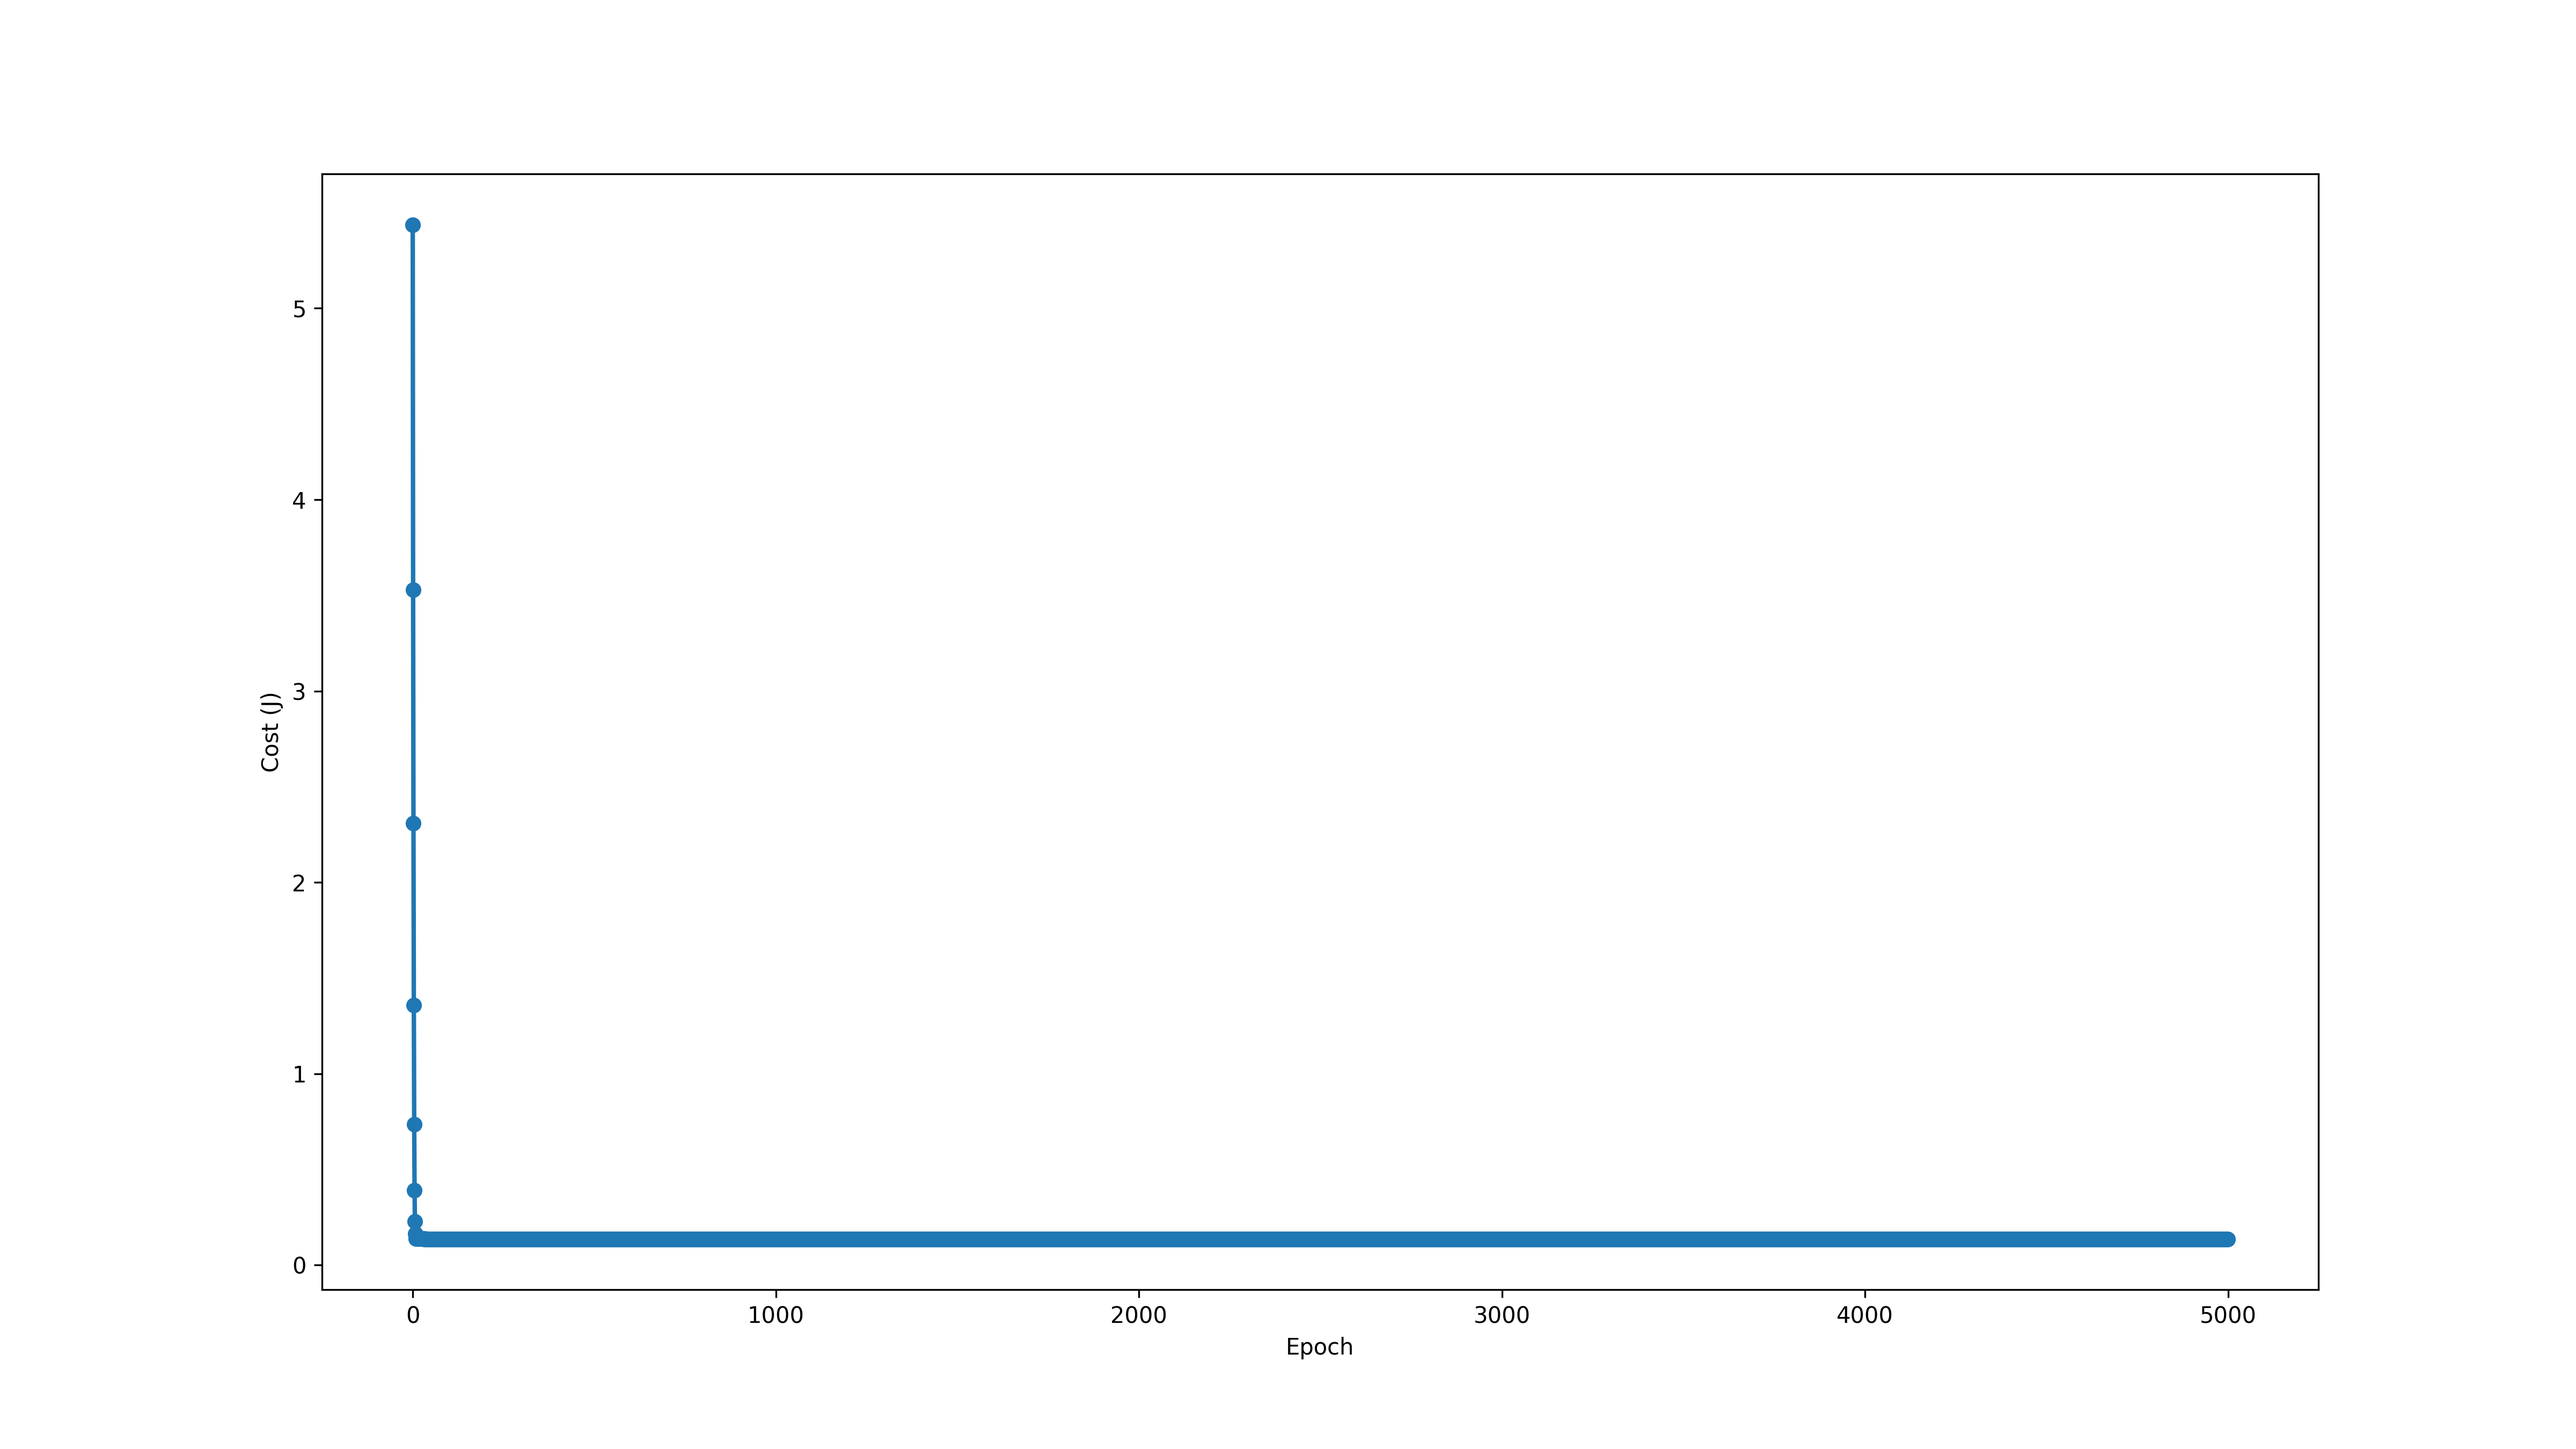
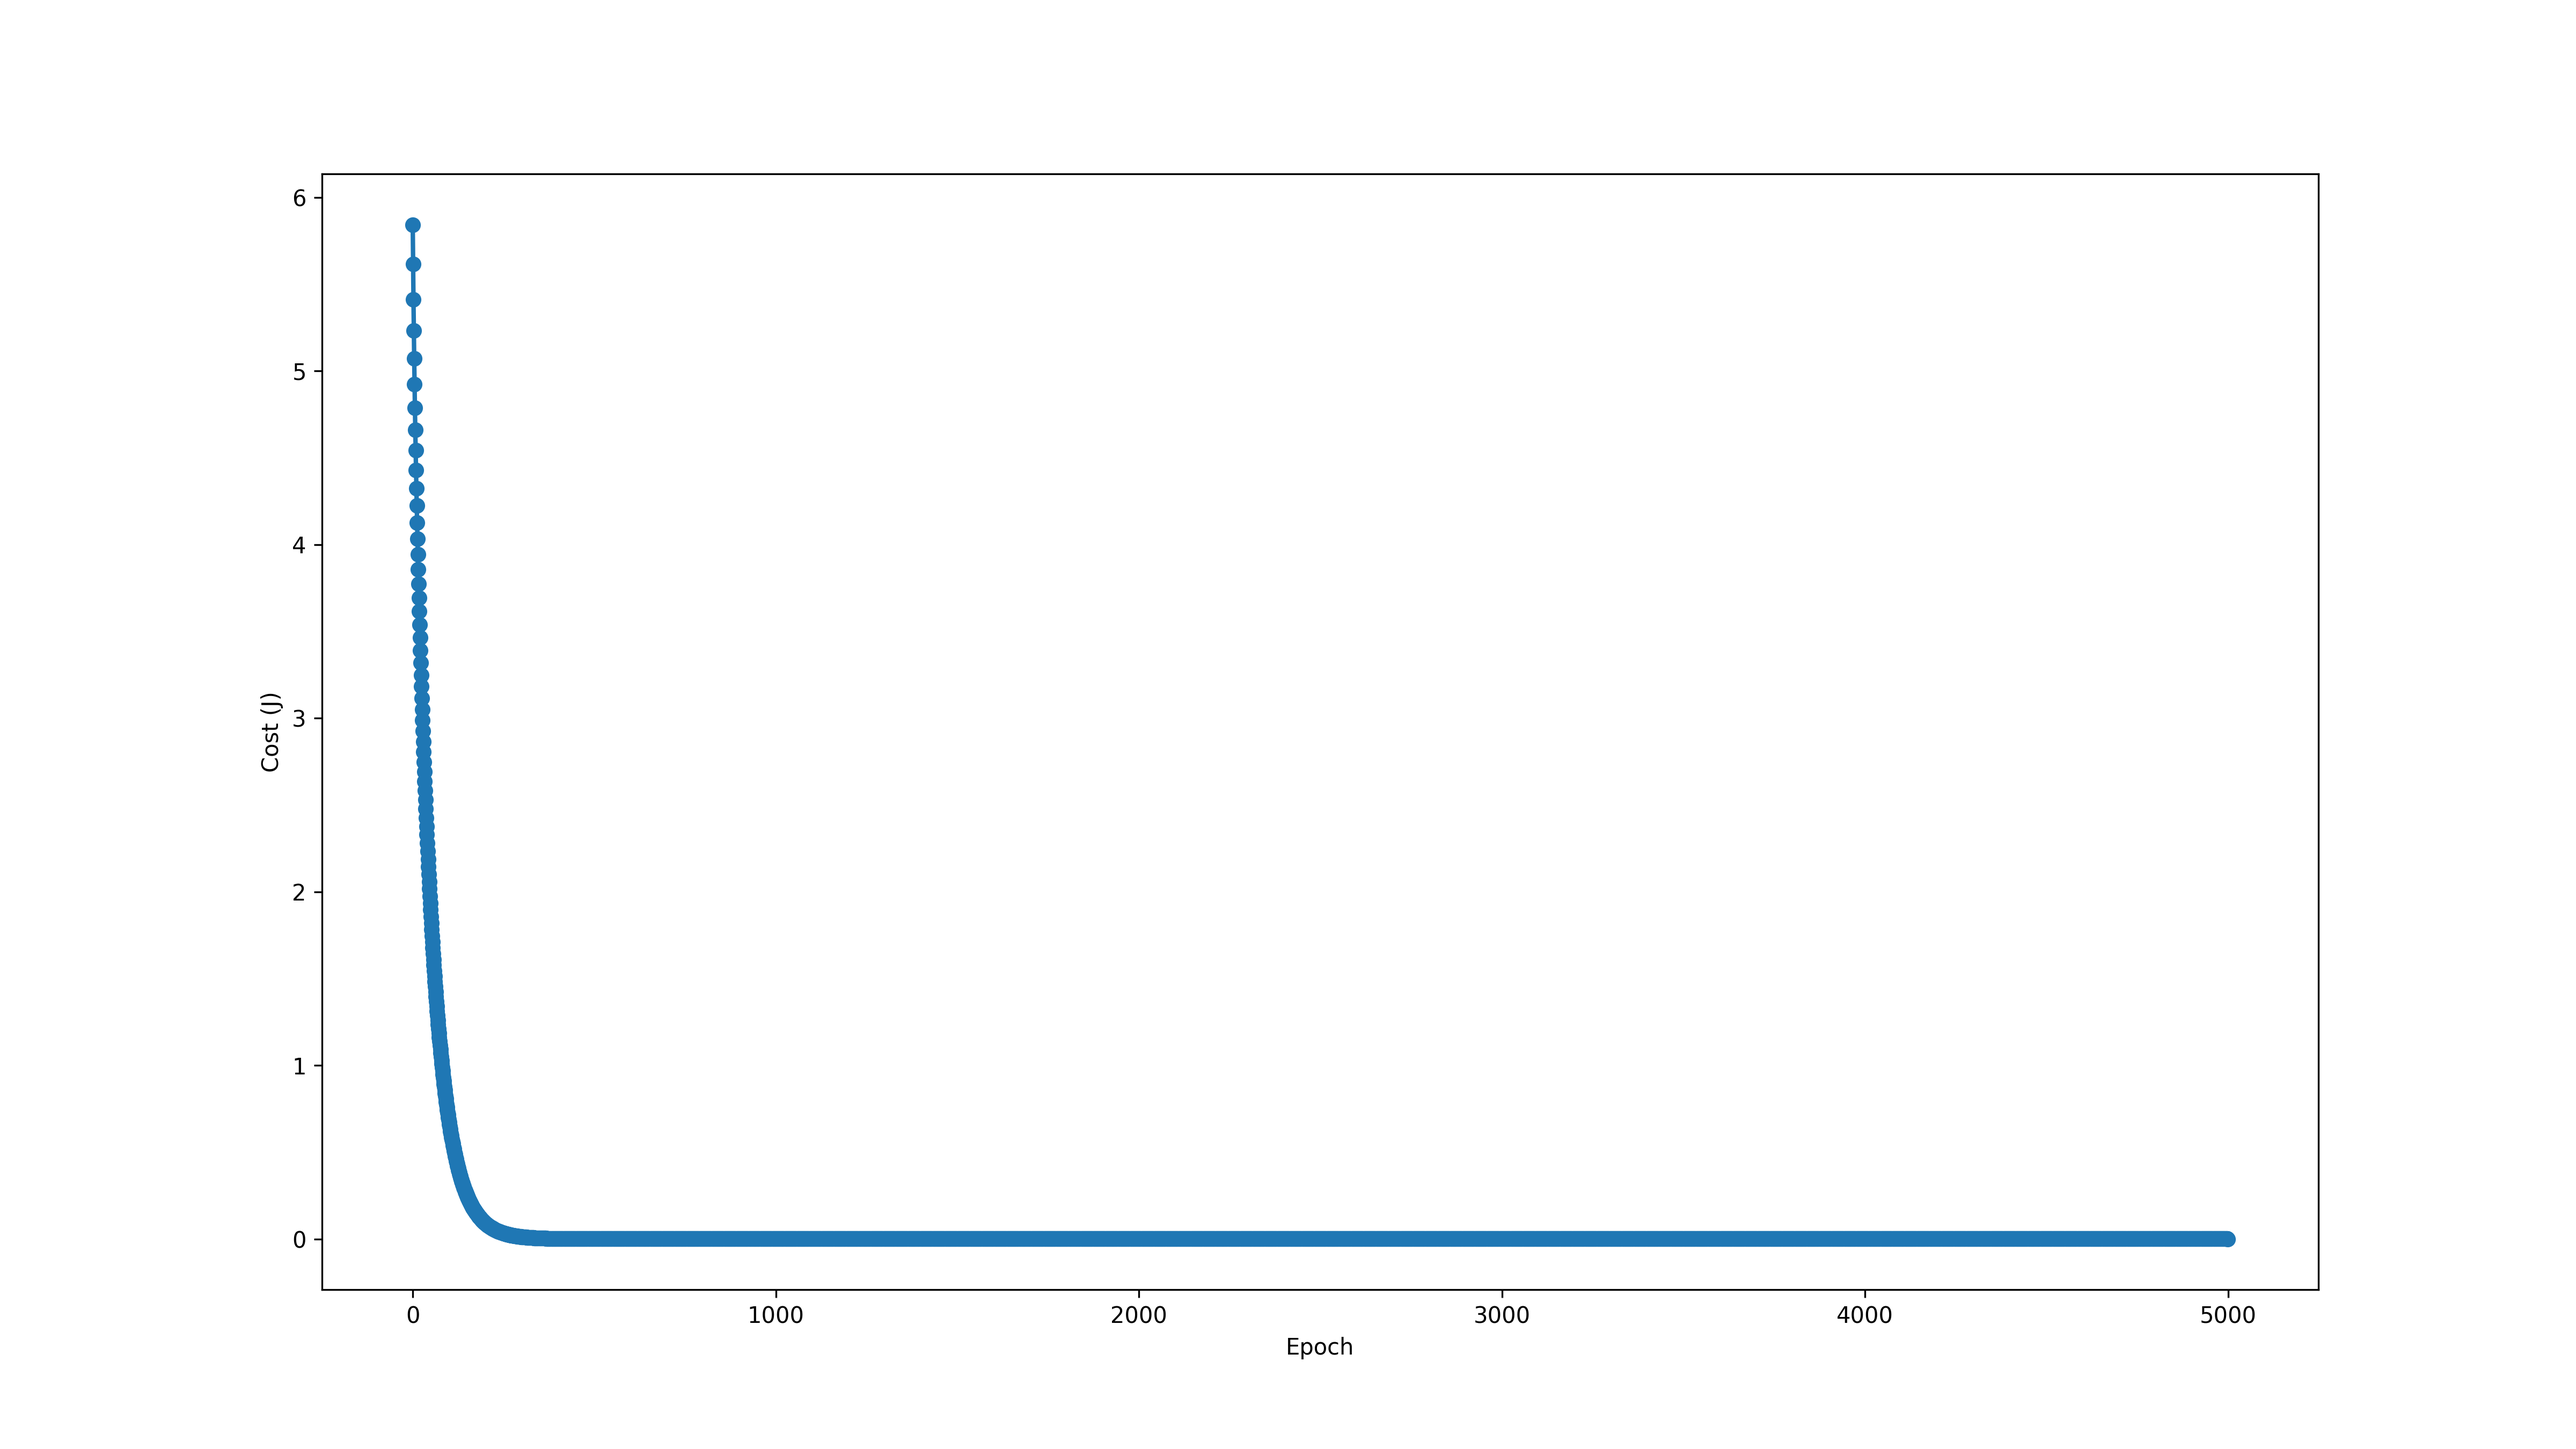
exc2 almost ending

Changed region(s): [[0.1562, 0.28, 0.2188, 0.8711]]

diff --git a/2 - Regression/regressao.py b/2 - Regression/regressao.py
@@ -6,19 +6,22 @@ import matplotlib.pyplot as plt
 from matplotlib import cm
 
 
-
-
+def vector2matrix(x):
+    return np.array([x]).T if len(x.shape) == 1 else x
 
 
 def f_true(x):
-    return 2 + 0.8 * x
+    # return 2 + 0.8 * x
+    y = np.ones((x.shape[0]))*2
+    for i in range(x.shape[1]):
+        xc = np.exp(x[:,i])
+        y = y + 0.4 * (i + 1)/10 * xc
+    return y
 
 
 def normal_equations(x, y):
     """Computes the closed-form solution to linear regression"""
-    if len(y.shape) == 1: y = np.array([y]).T
-    theta = np.matmul(np.matmul( inv(np.matmul(x.T, x)), x.T ), y)
-    return theta
+    return np.matmul(np.matmul( inv(np.matmul(x.T, x)), x.T ), y)
 
 
 def map_feature(x, degree):
@@ -26,11 +29,11 @@ def map_feature(x, degree):
     x0 = x[:, 0]
     x1 = x[:, 1]
     
-    out = np.ones(x1.shape[0], np.sum(np.arange(degree+2)))
-    count = 1
+    out = np.ones((x1.shape[0], np.sum(np.arange(degree+2))-1))
+    count = 0
     for i in range(1, degree+1):
-        for j in range(i):
-            out[:, count] = (x0**(i-j)) * (x1**j)
+        for j in range(i+1):
+            out[:, count] = x0**(i-j) * x1**j
             count += 1
     return out
 
@@ -42,7 +45,7 @@ def h(x, theta):
         x (numpy array): data of the problem
         theta (numpy array): parameters
     """
-    return np.matmul(x, theta)
+    return vector2matrix(np.matmul(x, theta))
 
 
 def J(theta, xs, ys):
@@ -79,18 +82,17 @@ def gradient(i, learning_rate, theta, xs, ys):
     for epoch in range(i):
         # Parameters (Theta)
         m = ys.shape[0]
-        theta = theta - ( learning_rate/m ) * ( np.matmul(xs.T, h(xs, theta) - ys) )
+        theta = theta - ( learning_rate/m ) * ( np.matmul( xs.T, h(xs, theta) - ys ) )
         
         # Save variables
-        theta_history[epoch, :] = theta
+        theta_history[epoch, :] = theta.ravel()
         J_history[epoch] = J(theta, xs, ys)
         
         # Plot
         if (
             epoch == 0 or
             epoch == i-1 or
-            np.abs(theta_history[epoch-1, 0] - theta[0])/theta[0] > 0.1 or
-            np.abs(theta_history[epoch-1, 1] - theta[1])/theta[1] > 0.1
+            np.sum(np.abs(theta_history[epoch-1, :] - theta)/theta) > 0.1*theta.shape[0]
             ):
             alpha = alpha + 0.05
             if alpha > 1: alpha = 1
@@ -117,7 +119,7 @@ def print_modelo(theta, xs, ys, fig, ax, plotted, alpha=1):
         xs (numpy array): input data
         ys (numpy array): output data
     """
-    x = xs[:, 1]
+    x = vector2matrix(xs[:, 1])
     y = f_true(x) # true function
     yr = h(xs, theta) # regression
     
@@ -140,6 +142,9 @@ def print_results(theta_hist, J_hist, xs, ys, learning_rate):
     plt.ylabel('Cost (J)')
     fig.set_size_inches(16, 9)
     fig.savefig(f'cost_{J_hist.shape[0]}epochs_{learning_rate}alpha.png', dpi=300)
+    
+    if xs.shape[1] > 2:
+        return
     
     # Now prepare to plot the cost in function of theta_0 and theta_1
     fig, (ax1, ax2) = plt.subplots(1, 2, subplot_kw={"projection": "3d"})
@@ -173,24 +178,28 @@ def print_results(theta_hist, J_hist, xs, ys, learning_rate):
 if __name__ == '__main__':
     # Data set {(x,y)}
     m = 100
-    xs = np.linspace(-3, 3, m)
-    ys = np.array( [f_true(x) + np.random.randn()*0.5 for x in xs] )
-
+    learning_rate = 0.01
+    
+    xs = np.array([np.linspace(-3, 3, m), np.linspace(.3, -1, m)]).T
+    xs = vector2matrix(xs)
+    ys = f_true(xs)
+    ys = vector2matrix(ys)
+    
+    # Polynomial regression
+    xs = map_feature(xs, degree=4)
+    
     # Normalize data
     mu = np.mean(xs, axis=0)
     sigma = np.std(xs, axis=0)
     xs = (xs - mu)/sigma
 
     # Add ones because of theta_0
-    if len(xs.shape) == 1: xs = np.array([xs]).T
     xs = np.concatenate((np.ones((xs.shape[0], 1)), xs), axis=1)
     
     # Initial theta
-    theta_init = np.zeros(xs.shape[1])-1
-    # Learning rate
-    learning_rate = 0.01
+    theta_init = vector2matrix(np.zeros(xs.shape[1]))
     
     theta, theta_hist, J_hist = gradient(i=5000, learning_rate=learning_rate, theta=theta_init, xs=xs, ys=ys)
     print_results(theta_hist, J_hist, xs, ys, learning_rate)
-    print(f'Theta found with the closed-form solution: {normal_equations(xs, ys)}')
+    print(f'Theta found with the closed-form solution: {normal_equations(xs, ys)[:,0]}')
     print(f'Theta found with gradient descent: {theta}')
